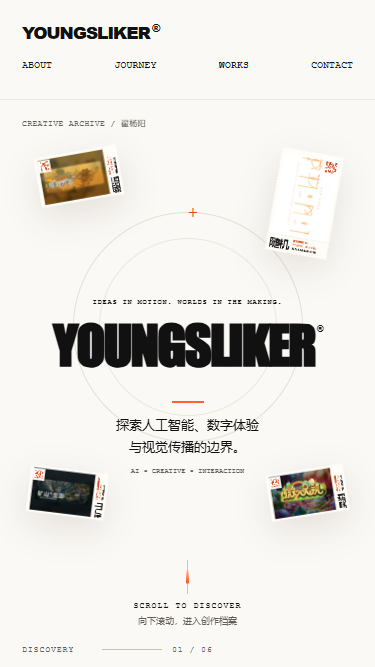
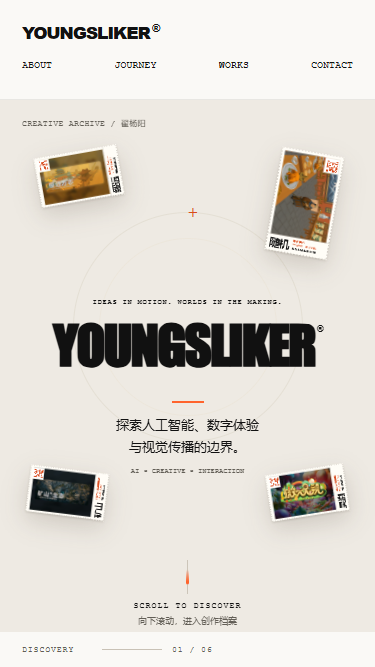
Astra改new小票2

diff --git a/New/js/tests/ticket.spec.ts b/New/js/tests/ticket.spec.ts
@@ -1,5 +1,28 @@
 import { test, expect } from '@playwright/test';
 const base = '/Portfolio-YoungSliker/New/';
+test('only random image moves while its frame and QR stay fixed', async ({page}) => {
+  await page.setViewportSize({width:1440,height:900});
+  await page.goto(base);
+  const random = page.locator('.artwork-ticket[data-parallax="true"]');
+  const picture = random.locator('.tear-ticket__image');
+  await page.mouse.move(20,100);
+  await page.waitForTimeout(700);
+  const before = await picture.evaluate(el => getComputedStyle(el).transform);
+  const frame = await random.locator('.tear-ticket__art').boundingBox();
+  const qr = await random.locator('.artwork-ticket__qr').boundingBox();
+  await page.mouse.move(1400,850);
+  await expect.poll(() => picture.evaluate(el => getComputedStyle(el).transform)).not.toBe(before);
+  await page.waitForTimeout(700);
+  expect(await random.locator('.tear-ticket__art').boundingBox()).toEqual(frame);
+  expect(await random.locator('.artwork-ticket__qr').boundingBox()).toEqual(qr);
+  for (const image of await page.locator('.artwork-ticket[data-parallax="false"] .tear-ticket__image').all()) {
+    const offset = await image.evaluate(el => {
+      const matrix = new DOMMatrixReadOnly(getComputedStyle(el).transform);
+      return [matrix.m41, matrix.m42];
+    });
+    expect(offset).toEqual([0,0]);
+  }
+});
 for (const viewport of [{width:1440,height:900}, {width:375,height:667}]) {
   test('ticket appearance and keyboard tear at ' + viewport.width, async ({page}) => {
     await page.setViewportSize(viewport);

diff --git a/New/css/artwork-ticket.css b/New/css/artwork-ticket.css
@@ -1,5 +1,8 @@
-.artwork-ticket { position:relative; width:70%; margin-inline:auto; filter:drop-shadow(0 12px 17px #55341d20); }
+.artwork-ticket { position:relative; width:70%; margin-inline:auto; filter:drop-shadow(0 1px 1px #493d3038) drop-shadow(0 9px 12px #493d3030); }
 .artwork-ticket__sheet { position:absolute; top:0; left:0; width:280px; height:464px; transform-origin:0 0; }
+/* Pointer motion belongs to the image, not the paper, clipping frame or QR. */
+.artwork-ticket .tear-ticket__plane,
+.artwork-ticket .tear-ticket__content { transform:none !important; }
 .artwork-ticket .tear-ticket__paper {
   mask:
     radial-gradient(circle at 7px 0, transparent 3.5px, #000 4px) 0 0 / 14px 100% repeat-x,
@@ -14,10 +17,14 @@
   width:375px; height:250px; left:-62.5px; top:62.5px; rotate:90deg;
   object-fit:contain;
 }
+.artwork-ticket[data-parallax="true"] .tear-ticket__image { scale:1.1; }
+@media (prefers-reduced-motion:reduce) {
+  .artwork-ticket[data-parallax="true"] .tear-ticket__image { scale:1; }
+}
 .artwork-ticket__qr {
-  position:absolute; top:20px; right:20px; display:block;
+  position:absolute; top:15px; right:15px; display:block;
   width:60px; height:60px; min-width:60px; max-width:none;
-  aspect-ratio:1; object-fit:contain; border:3px solid #fff; background:#fff;
+  aspect-ratio:1; object-fit:contain; border:3px solid #fffdf7; background:#fffdf7;
   box-sizing:content-box; image-rendering:pixelated;
 }
 .artwork-ticket__stub {

diff --git a/New/js/components/ArtworkTicket.tsx b/New/js/components/ArtworkTicket.tsx
@@ -29,7 +29,7 @@ export function ArtworkTicket({ title, date, image, qrValue, width, height }: {
       .then(value => { if (active) setQr(value); });
     return () => { active = false; };
   }, [qrValue]);
-  return <div ref={host} className="artwork-ticket" data-layout={vertical ? 'portrait' : 'landscape'}
+  return <div ref={host} className="artwork-ticket" data-parallax={date === 'RANDOM' ? 'true' : 'false'} data-layout={vertical ? 'portrait' : 'landscape'}
     style={{ aspectRatio: vertical ? '280 / 464' : '464 / 280' }}>
     <div className="artwork-ticket__sheet" style={{
       transform: vertical ? `scale(${scale})` : `translateY(${280 * scale}px) rotate(-90deg) scale(${scale})`,
@@ -38,7 +38,7 @@ export function ArtworkTicket({ title, date, image, qrValue, width, height }: {
         width={280} height={464} orientation="vertical" stubSize={74}
         scrim={false} imageRadius={0} radius={0} holes={16} holeSize={2} notch={3} roughness={0}
         tearAngle={30} stretch={20} resistance={.45} rotate={0}
-        tilt tiltMax={5} tiltReach={180} parallax={date === 'RANDOM' ? 9 : 4} perspective={1000}
+        tilt={date === 'RANDOM'} tiltMax={5} tiltReach={180} parallax={date === 'RANDOM' ? 9 : 0} perspective={1000}
         background="#fffdf7" stubBackground="#fffdf7" color="#d94a1c"
         border={false} recenter={false} ariaLabel={'撕开' + title + '作品票根'}
         stub={<div className="artwork-ticket__stub">

diff --git a/New/css/hero.css b/New/css/hero.css
@@ -1,4 +1,4 @@
-.hero { position: relative; height: calc(175svh - var(--header-height)); }
+.hero { --paper: #eeeae3; position: relative; height: calc(175svh - var(--header-height)); }
 .hero-stage { height: calc(100svh - var(--header-height)); min-height: 440px; position: sticky; top: var(--header-height); overflow: clip; isolation: isolate; background: var(--paper); }
 .hero-meta { position: absolute; inset: 24px var(--gutter) auto; display: flex; justify-content: space-between; font: 9px var(--mono); letter-spacing: 1.3px; color: #625e56; z-index: 6; }
 .hero-title-group { position: absolute; left: 0; right: 0; top: 31%; text-align: center; z-index: 2; will-change: transform,opacity; }
